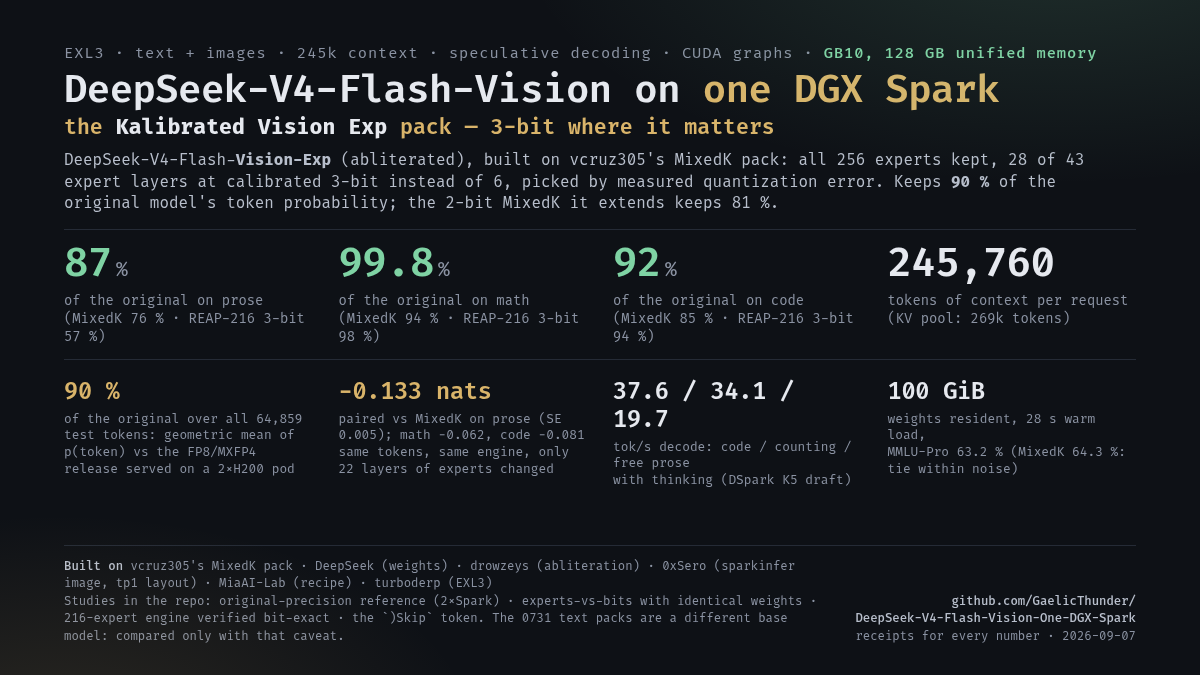
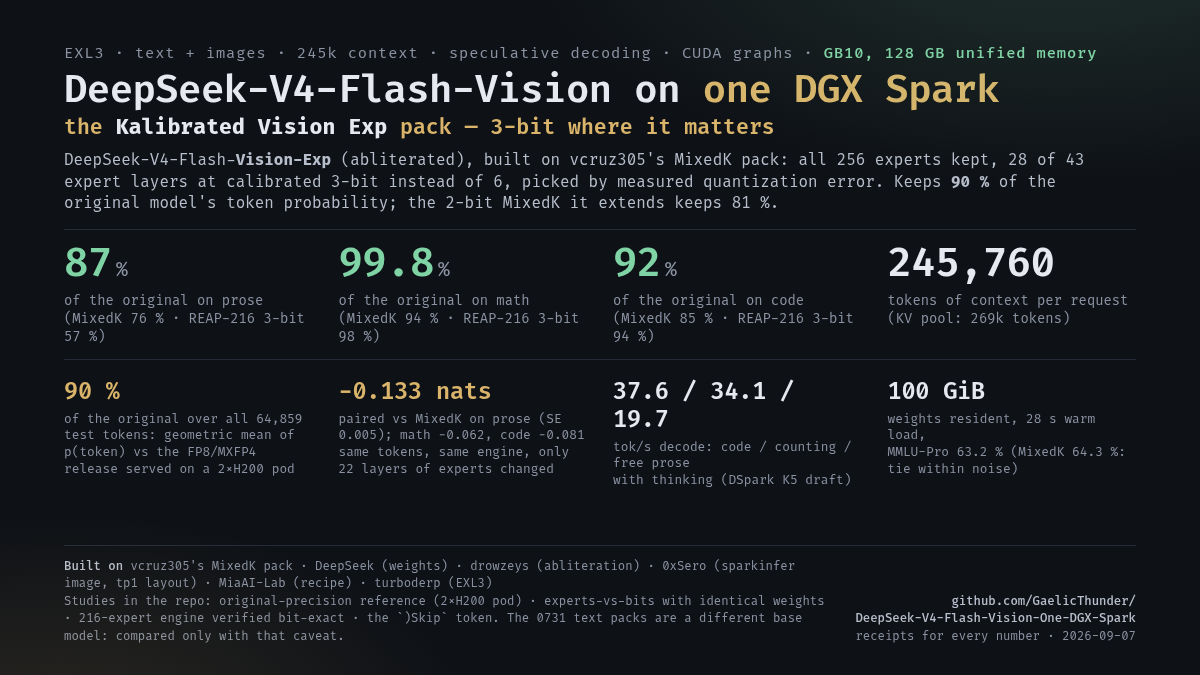
Cards: the footer's reference note also said 2×Spark — now 2×H200 pod; re-rendered

Changed region(s): [[0.0617, 0.8711, 0.6783, 0.9333]]

diff --git a/assets/kalibrated/banner.html b/assets/kalibrated/banner.html
@@ -46,6 +46,6 @@ measured quantization error. Keeps <b>90 %</b> of the original model's token pro
 </div>
 <div class="foot">
   <div><b>Built on</b> vcruz305's MixedK pack · DeepSeek (weights) · drowzeys (abliteration) · 0xSero (sparkinfer image, tp1 layout) · MiaAI-Lab (recipe) · turboderp (EXL3)<br>
-  Studies in the repo: original-precision reference (2×Spark) · experts-vs-bits with identical weights · 216-expert engine verified bit-exact · the `)Skip` token. The 0731 text packs are a different base model: compared only with that caveat.</div>
+  Studies in the repo: original-precision reference (2×H200 pod) · experts-vs-bits with identical weights · 216-expert engine verified bit-exact · the `)Skip` token. The 0731 text packs are a different base model: compared only with that caveat.</div>
   <div style="text-align:right; white-space:nowrap; padding-left:24px"><b>github.com/GaelicThunder/<br>DeepSeek-V4-Flash-Vision-One-DGX-Spark</b><br>receipts for every number · 2026-09-07</div>
 </div>

diff --git a/assets/kalibrated/header-x.html b/assets/kalibrated/header-x.html
@@ -46,6 +46,6 @@ measured quantization error. Keeps <b>90 %</b> of the original model's token pro
 </div>
 <div class="foot">
   <div><b>Built on</b> vcruz305's MixedK pack · DeepSeek (weights) · drowzeys (abliteration) · 0xSero (sparkinfer image, tp1 layout) · MiaAI-Lab (recipe) · turboderp (EXL3)<br>
-  Studies in the repo: original-precision reference (2×Spark) · experts-vs-bits with identical weights · 216-expert engine verified bit-exact · the `)Skip` token. The 0731 text packs are a different base model: compared only with that caveat.</div>
+  Studies in the repo: original-precision reference (2×H200 pod) · experts-vs-bits with identical weights · 216-expert engine verified bit-exact · the `)Skip` token. The 0731 text packs are a different base model: compared only with that caveat.</div>
   <div style="text-align:right; white-space:nowrap; padding-left:24px"><b>github.com/GaelicThunder/<br>DeepSeek-V4-Flash-Vision-One-DGX-Spark</b><br>receipts for every number · 2026-09-07</div>
 </div>
